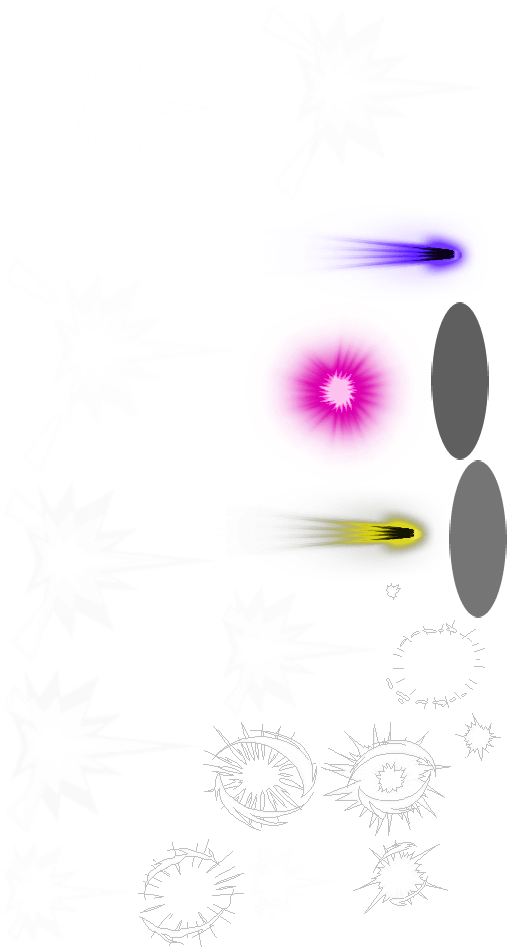
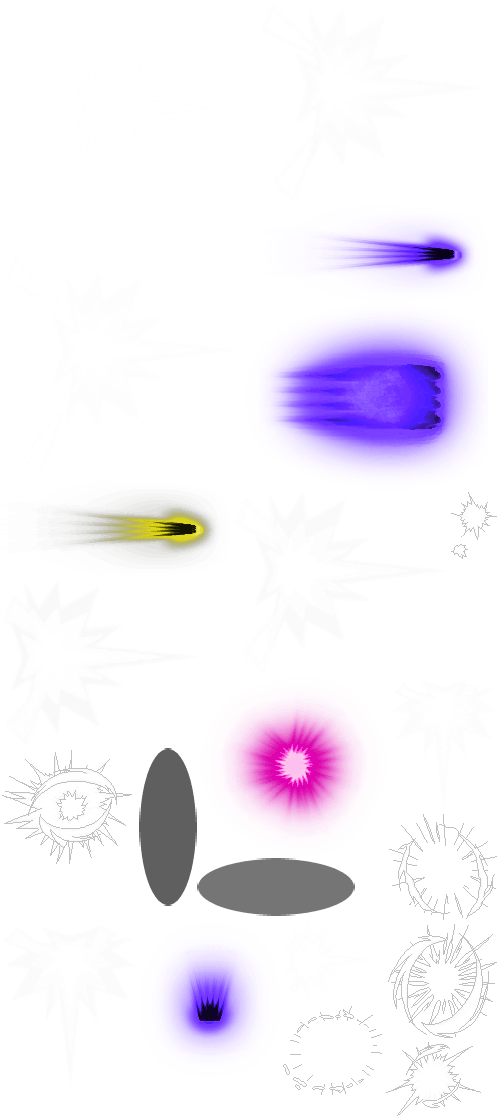
feature(ShotGun)

diff --git a/packages/survivor-simulation/src/lib/features/weapon/data/attacks/weapon-attack-spot-projectile.ts b/packages/survivor-simulation/src/lib/features/weapon/data/attacks/weapon-attack-spot-projectile.ts
@@ -1,0 +1,87 @@
+import { Transform2d } from '@p228/engine'
+import {
+  IVector2Like,
+  MathOps, Vector2,
+  VECTOR2_BUFFER_1,
+  VECTOR2_BUFFER_3,
+  VECTOR2_BUFFER_4,
+} from '@p228/math'
+import { CollisionGroups } from '../../../../collision-groups'
+import { findClosestEnemyInRadiusOptimal } from '../../../attack/misc/find-enemy-in-radius'
+import { ProjectileType } from '../../../projectile/components/projectile'
+import { spawnProjectile } from '../../../projectile/misc/spawn-projectile'
+import { Weapon } from '../../components/weapon'
+import { WeaponAttackType } from '../weapon-type'
+import { AbstractWeaponAttack } from './abstract-weapon-attack'
+
+const SHOOT_POINT_BUFFER = new Vector2()
+const DIRECTION_BUFFER = new Vector2()
+
+export class WeaponAttackSpotProjectile extends AbstractWeaponAttack<WeaponAttackType.SpotProjectile> {
+  public readonly attackType = WeaponAttackType.SpotProjectile
+
+  protected attack(progress: number, target: IVector2Like | undefined): void {
+    if (target === undefined) throw new Error('Target is undefined')
+
+    const shootPoint = SHOOT_POINT_BUFFER.set(Transform2d.x[this._weaponEntityRef], Transform2d.y[this._weaponEntityRef])
+    const direction = DIRECTION_BUFFER.from(target).sub(shootPoint).normalize()
+
+    Transform2d.rotation[this._weaponEntityRef] = MathOps.atan2(direction.y, direction.x)
+
+    // calculate projectiles directions
+    const angle = this._weaponValues.angle
+
+    let projectilesToSpawn = this._weaponValues.projectiles
+    let startAngle = angle / 2
+    let angleStep = angle / (projectilesToSpawn - 1)
+
+    const isEven = this._weaponValues.projectiles % 2 == 0
+    if (!isEven) {
+      this.spawnProjectile(shootPoint, direction)
+      projectilesToSpawn -= 1
+    }
+
+    const dir1 = VECTOR2_BUFFER_3.set(0, 0)
+    const dir2 = VECTOR2_BUFFER_4.set(0, 0)
+
+    for (let i = 0; i < projectilesToSpawn / 2; i++) {
+      dir1.from(direction).rotate(startAngle)
+      dir2.from(direction).rotate(startAngle * -1)
+      this.spawnProjectile(shootPoint, dir1)
+      this.spawnProjectile(shootPoint, dir2)
+
+      startAngle -= angleStep
+    }
+  }
+
+  protected findTarget() {
+    VECTOR2_BUFFER_1.set(Transform2d.x[this._weaponEntityRef], Transform2d.y[this._weaponEntityRef])
+    const optimalTarget = findClosestEnemyInRadiusOptimal(
+      this._world,
+      this._weaponEntityRef,
+      VECTOR2_BUFFER_1,
+      this._weaponValues.range,
+      this._attackedTargets,
+    )
+
+    if (optimalTarget === undefined) return
+
+    this._attackedTargets.push(optimalTarget)
+
+    return this._world.physicsWorld.colliders.get(optimalTarget)!.translation()
+  }
+
+  private spawnProjectile(shootPoint: IVector2Like, direction: IVector2Like) {
+    spawnProjectile(
+      this._world,
+      Weapon.ownerRef[this._weaponEntityRef],
+      ProjectileType.EthernalShot,
+      CollisionGroups.PlayerProjectile,
+      shootPoint,
+      direction,
+      this._weaponValues.speed,
+      this._weaponValues.baseDamage,
+    )
+  }
+
+}

diff --git a/packages/survivor-simulation/src/lib/features/weapon/data/weapon-type.ts b/packages/survivor-simulation/src/lib/features/weapon/data/weapon-type.ts
@@ -1,12 +1,16 @@
+import { MathOps } from '@p228/math'
+
 export enum WeaponType {
   Sword,
   EthernalGun,
-  Shotgun,
+  EthernalBlaster,
+  // DestructiveGun,
 }
 export enum WeaponAttackType {
   Thrust,
   Projectile,
   SpotProjectile,
+  // RocketProjectile,
 }
 
 interface IThrustWeapon {
@@ -44,6 +48,6 @@ TAttackType extends WeaponAttackType.Thrust
 export const WeaponData = {
   [WeaponType.Sword]: { attackType: WeaponAttackType.Thrust, range: 200, cooldown: 60, width: 40, height: 10, baseDamage: 10, duration: 12 } as IWeapon<WeaponAttackType.Thrust>,
   [WeaponType.EthernalGun]: { attackType: WeaponAttackType.Projectile, range: 500, cooldown: 10, baseDamage: 5, speed: 40 } as IWeapon<WeaponAttackType.Projectile>,
-  [WeaponType.Shotgun]: { attackType: WeaponAttackType.SpotProjectile, range: 500, cooldown: 90, baseDamage: 5, speed: 40, angle: 0.5, projectiles: 5 } as IWeapon<WeaponAttackType.SpotProjectile>,
+  [WeaponType.EthernalBlaster]: { attackType: WeaponAttackType.SpotProjectile, range: 700, cooldown: 90, baseDamage: 5, speed: 40, angle: MathOps.Deg2Rad * 20, projectiles: 7 } as IWeapon<WeaponAttackType.SpotProjectile>,
 }
 

diff --git a/packages/survivor-simulation/src/lib/features/weapon/systems/weapon-ai-system.ts b/packages/survivor-simulation/src/lib/features/weapon/systems/weapon-ai-system.ts
@@ -5,6 +5,7 @@ import { SurvivorWorld } from '@p228/survivor-simulation'
 import { Weapon } from '../components/weapon'
 import { AbstractWeaponAttack } from '../data/attacks/abstract-weapon-attack'
 import { WeaponAttackProjectile } from '../data/attacks/weapon-attack-projectile'
+import { WeaponAttackSpotProjectile } from '../data/attacks/weapon-attack-spot-projectile'
 import { WeaponAttackThrust } from '../data/attacks/weapon-attack-thrust'
 import { WeaponAttackType } from '../data/weapon-type'
 import { WeaponTargetsAttackedPool } from '../misc/weapon-targets-attacked-pool'
@@ -26,6 +27,7 @@ export class WeaponAiSystem extends AbstractSystem<SurvivorWorld> {
 
     this._weaponAttacks.set(WeaponAttackType.Thrust, new WeaponAttackThrust(this.world, this._weaponTargetsAttackedPool))
     this._weaponAttacks.set(WeaponAttackType.Projectile, new WeaponAttackProjectile(this.world, this._weaponTargetsAttackedPool))
+    this._weaponAttacks.set(WeaponAttackType.SpotProjectile, new WeaponAttackSpotProjectile(this.world, this._weaponTargetsAttackedPool))
   }
 
   public override update(): void {

diff --git a/packages/survivor-simulation/src/lib/features/player/misc/spawn-player.ts b/packages/survivor-simulation/src/lib/features/player/misc/spawn-player.ts
@@ -40,7 +40,8 @@ export function spawnPlayer(world: SurvivorWorld, rpc: Rpc<PlayerJoinedData>) {
 
   Health.max[playerEntityRef] = Health.current[playerEntityRef] = 100
 
-  spawnWeapon(entityManager, WeaponType.EthernalGun, playerPosition, 100, 0)
-  spawnWeapon(entityManager, WeaponType.EthernalGun, playerPosition, 50, -100)
-  spawnWeapon(entityManager, WeaponType.Sword, playerPosition, 50, 100)
+  spawnWeapon(entityManager, WeaponType.EthernalBlaster, playerPosition, 100, 0)
+  // spawnWeapon(entityManager, WeaponType.EthernalGun, playerPosition, 100, 0)
+  // spawnWeapon(entityManager, WeaponType.EthernalGun, playerPosition, 50, -100)
+  // spawnWeapon(entityManager, WeaponType.Sword, playerPosition, 50, 100)
 }

diff --git a/packages/survivor-game/src/app/game/survivor/views/projectile/projectile-colors.ts b/packages/survivor-game/src/app/game/survivor/views/projectile/projectile-colors.ts
@@ -6,4 +6,6 @@ export const ProjectileColors: { [key in ProjectileType]: number } = {
   [ProjectileType.Standard]: 0x7338FB,
   [ProjectileType.Enemy]: 0xD900AB,
   [ProjectileType.Ethernal]: 0x7338FB,
+  [ProjectileType.EthernalShot]: 0x7338FB,
+  [ProjectileType.Rocket]: 0xff0000,
 }

diff --git a/packages/survivor-simulation/src/lib/features/projectile/components/projectile.ts b/packages/survivor-simulation/src/lib/features/projectile/components/projectile.ts
@@ -4,6 +4,8 @@ export enum ProjectileType {
   Standard = 0,
   Enemy,
   Ethernal,
+  EthernalShot,
+  Rocket,
 }
 
 export const Projectile = defineComponent({
